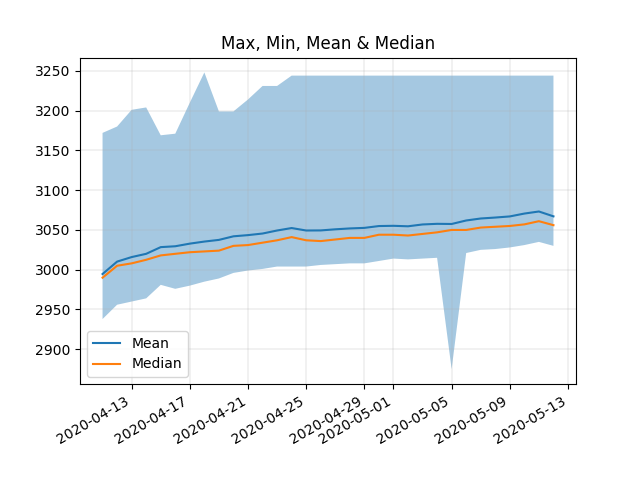
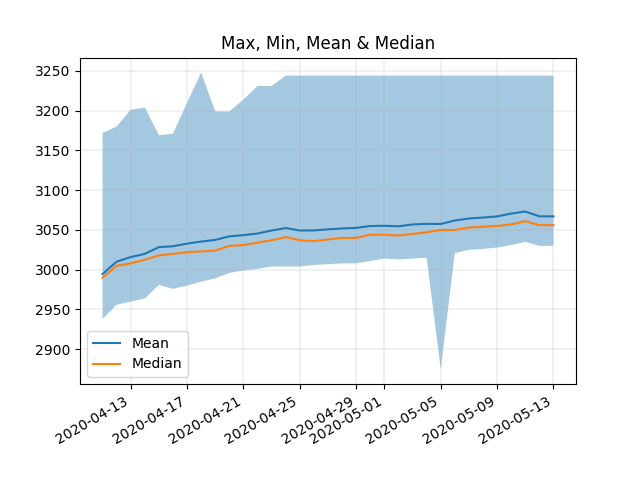
Wed May 13 15:30:15 EDT 2020

diff --git a/README.md b/README.md
@@ -1,10 +1,11 @@
 # MMR Drift Status
 
-**Last Updated (UTC):** 2020-05-12 21:15:10.223859
+**Last Updated (UTC):** 2020-05-13 19:30:14.682309
 ![Figure 1](/images/fig1.png)
 ![Figure 2](/images/fig2.png)
 |date| min| max| mean| drift_daily| drift_total| median| stdev|
 |:---|:---|:---|:---|:---|:---|:---|:--- |
+|13-May-2020| 3030| 3244| 3067.1| 0.0| 72.5| 3056.0| 35.4|
 |12-May-2020| 3030| 3244| 3067.1| -6.1| 72.5| 3056.0| 35.4|
 |11-May-2020| 3035| 3244| 3073.2| 2.6| 78.5| 3061.0| 36.8|
 |10-May-2020| 3031| 3244| 3070.6| 3.5| 76.0| 3057.0| 37.9|
